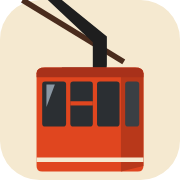
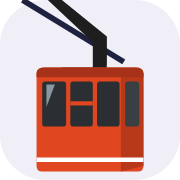
Charte n° 6 « Sorbet » à la place d'« Après-ski »
Palette pastel (violet électrique, menthe, nuit), Plus Jakarta Sans servie par
le site, arrondis et ombres de la charte, branches pêche, lavande et citron.
Logo « Chalet de famille », favicon et bandeau animé Sorbet. Les couleurs de
lignée claires prennent un texte nuit (contraste). Plus de trame « en attente ».

diff --git a/resources/css/app.css b/resources/css/app.css
@@ -1,8 +1,8 @@
 @import "tailwindcss";
-@import "@fontsource/fraunces/400.css";
-@import "@fontsource/fraunces/600.css";
-@import "@fontsource/fraunces/700.css";
-@import "@fontsource/fraunces/900.css";
+@import "@fontsource/plus-jakarta-sans/400.css";
+@import "@fontsource/plus-jakarta-sans/600.css";
+@import "@fontsource/plus-jakarta-sans/700.css";
+@import "@fontsource/plus-jakarta-sans/800.css";
 @source "../views";
 @source "../js";
 /* Vue saison : colonnes de la frise (1 à 31) et longueur des barres. */
@@ -10,50 +10,52 @@
 @source inline("row-start-{1,2,3,4}");
 @source inline("col-span-{1,2,3,4,5,6,7,8,9,10,11,12,13,14,15,16,17,18,19,20,21,22,23,24,25,26,27,28,29,30,31}");
 
-/* Charte n° 5 « Après-ski » (années 70), validée par Pascal le 5 nov. 2026.
-   Jetons de la charte, puis les anciens noms utilisés dans les vues, rattachés à la charte. */
+/* Charte n° 6 « Sorbet » (moderne pastel), retenue par Pascal le 6 nov. 2026.
+   Jetons de la charte (contexte/charte/sorbet/sorbet-theme.css), puis les anciens noms des vues rattachés à la charte. */
 @theme {
-    --font-sans: "Fraunces", Georgia, serif;
-    --font-display: "Fraunces", Georgia, serif;
-    --color-principale: #A84B1A;        /* boutons, sélection (blanc dessus 5,7:1) */
-    --color-principale-fonce: #8E3E14;  /* survol */
-    --color-accent: #E0A526;            /* moutarde : réservé (chocolat dessus) */
-    --color-texte: #4A2C1D;             /* chocolat */
-    --color-fond: #F5E9D0;              /* crème */
-    --color-surface: #FFF8EA;
-    --color-cabine: #E0461F;            /* illustration seulement, jamais sous du texte */
-    --color-gris-50: #FAF6EF; --color-gris-100: #F0E8DA; --color-gris-200: #E0D4C0; --color-gris-300: #C9B9A0;
-    --color-gris-400: #A8957A; --color-gris-500: #85735B; --color-gris-600: #65553F; --color-gris-700: #3B3024;
-    --color-succes: #3F6B2A; --color-succes-fond: #E4EED8;
-    --color-alerte: #7A4B00; --color-alerte-fond: #F6E3B4;
-    --color-erreur: #B3261E; --color-erreur-fond: #FBE3DE;
-    --color-info: #1F5A7A;   --color-info-fond: #DCEBF2;
-    --color-branche-1: #5F6B28; --color-branche-2: #1F6F6B; --color-branche-3: #7A3B69;
-    --radius-sm: 6px; --radius-md: 12px; --radius-lg: 20px;
-    --shadow-sm: 0 1px 3px rgb(74 44 29 / .12);
-    --shadow-md: 0 4px 12px rgb(74 44 29 / .15);
-    --shadow-lg: 0 12px 32px rgb(74 44 29 / .20);
+    --font-sans: "Plus Jakarta Sans", system-ui, sans-serif;
+    --font-display: "Plus Jakarta Sans", system-ui, sans-serif;
+    --color-principale: #5B3DF5;        /* violet électrique : boutons, sélection (blanc dessus 6,1:1) */
+    --color-principale-fonce: #4527D9;  /* survol */
+    --color-principale-clair: #F0EEF7;
+    --color-accent: #C9F0DC;            /* menthe : réservation ouverte (texte nuit dessus) */
+    --color-peche: #FFB4A2; --color-citron: #FFE27A; --color-lavande: #B9B0FF;
+    --color-texte: #1F2140;             /* nuit ; aussi fond des réservations exclusives */
+    --color-fond: #FFFDF8;
+    --color-surface: #FFFFFF;
+    --color-cabine: #E0461F;            /* illustration seulement */
+    --color-gris-50: #F8F7FC; --color-gris-100: #F0EEF7; --color-gris-200: #E2DFEE; --color-gris-300: #C8C4DA;
+    --color-gris-400: #A29DBA; --color-gris-500: #7C779A; --color-gris-600: #5A5677; --color-gris-700: #3A3756;
+    --color-succes: #1E7A4F; --color-succes-fond: #DDF5E8;
+    --color-alerte: #8A5A00; --color-alerte-fond: #FFF1C2;
+    --color-erreur: #B3203D; --color-erreur-fond: #FFE1E6;
+    --color-info: #1D5FC2;   --color-info-fond: #E0ECFF;
+    --color-branche-1: #FFB4A2; --color-branche-2: #B9B0FF; --color-branche-3: #FFE27A;
+    --radius-sm: 8px; --radius-md: 12px; --radius-lg: 16px;
+    --shadow-sm: 0 1px 2px rgb(31 33 64 / .06);
+    --shadow-md: 0 4px 14px rgb(31 33 64 / .08);
+    --shadow-lg: 0 16px 40px rgb(31 33 64 / .14);
     /* Jamais moins de 16 px (charte) : les petites tailles Tailwind sont relevées. */
     --text-xs: 16px; --text-xs--line-height: 1.45;
     --text-sm: 16px; --text-sm--line-height: 1.45;
-    --text-base: 17px; --text-base--line-height: 1.5;
+    --text-base: 17px; --text-base--line-height: 1.55;
 
     /* Anciens noms → charte. */
-    --color-white: #FFF8EA;
-    --color-sapin: #A84B1A;
-    --color-sapin-clair: #F0E8DA;
-    --color-encre: #4A2C1D;
-    --color-gris: #65553F;
-    --color-gris-clair: #85735B;
-    --color-texte-2: #3B3024;
-    --color-bord: #E0D4C0;
-    --color-bord-doux: #F0E8DA;
-    --color-bord-fort: #C9B9A0;
-    --color-ouverte: #E0A526;
-    --color-ouverte-bord: #E0A526;
-    --color-ouverte-texte: #4A2C1D;
-    --color-segment: #E0D4C0;
-    --color-station: #A84B1A;
+    --color-white: #FFFFFF;
+    --color-sapin: #5B3DF5;
+    --color-sapin-clair: #F0EEF7;
+    --color-encre: #1F2140;
+    --color-gris: #5A5677;
+    --color-gris-clair: #7C779A;
+    --color-texte-2: #3A3756;
+    --color-bord: #E2DFEE;
+    --color-bord-doux: #F0EEF7;
+    --color-bord-fort: #C8C4DA;
+    --color-ouverte: #C9F0DC;
+    --color-ouverte-bord: #C9F0DC;
+    --color-ouverte-texte: #1F2140;
+    --color-segment: #E2DFEE;
+    --color-station: #5B3DF5;
 }
 
 /*
@@ -79,11 +81,11 @@
 @layer components {
     /* Écart assumé à la charte (16 px minimum) : les créneaux du mois restent en 12,5 px pour lire le nom et le commentaire (demande de Pascal, 5 nov.). */
     .case { @apply relative flex min-h-9 cursor-pointer flex-col justify-center gap-px overflow-hidden rounded-md border px-1.5 py-1 text-[12.5px] leading-tight font-medium tracking-tight whitespace-nowrap; }
-    .case-libre, .barre-libre { @apply border-gris-300 bg-white text-gris-clair; }
+    .case-libre, .barre-libre { @apply border-gris-200 bg-white text-gris-clair; }
     .case-ouverte { @apply border-ouverte-bord bg-ouverte text-ouverte-texte; }
     .case-exclusive, .barre-exclusive { @apply cursor-not-allowed border-encre bg-encre text-white; }
     .case-attribue, .barre-attribue { @apply cursor-not-allowed border-alerte bg-alerte-fond text-alerte; }
-    .case-attente, .barre-attente { @apply cursor-not-allowed border-bord-fort text-encre; background-image: repeating-linear-gradient(135deg, var(--color-segment) 0 4px, var(--color-bord-fort) 4px 8px); }
+    .case-attente, .barre-attente { @apply cursor-not-allowed border-gris-200 bg-gris-100 text-gris-600; }
     .case-ferme, .barre-ferme { @apply cursor-not-allowed border-gris bg-fond text-gris line-through; }
     .case-pas-ouvert, .barre-pas-ouvert { @apply cursor-not-allowed border-dotted border-bord bg-fond text-gris; }
     .case-passe { @apply cursor-default opacity-60; }
@@ -103,7 +105,7 @@
 
 /* Titres en Fraunces ; chiffres alignés dans le calendrier. */
 @layer base {
-    h1 { font-weight: 900; line-height: 1.15; }
+    h1 { font-weight: 800; line-height: 1.15; letter-spacing: -0.02em; }
     h2, h3 { font-weight: 700; }
     table, [data-date] { font-variant-numeric: tabular-nums; }
 }

diff --git a/app/Http/Controllers/CouleursLigneesController.php b/app/Http/Controllers/CouleursLigneesController.php
@@ -20,10 +20,20 @@ final class CouleursLigneesController
         foreach (Lignee::query()->pluck('couleur')->unique() as $couleur) {
             $classe = AffichageCreneau::classeCouleur((string) $couleur);
             if ($classe !== null) {
-                $css .= ".{$classe}{background-color:{$couleur};border-color:{$couleur};color:#fff}\n";
+                $texte = self::claire((string) $couleur) ? '#1F2140' : '#fff'; // pastels de la charte : texte nuit
+                $css .= ".{$classe}{background-color:{$couleur};border-color:{$couleur};color:{$texte}}\n";
             }
         }
 
         return response($css, 200, ['Content-Type' => 'text/css; charset=utf-8', 'Cache-Control' => 'private, max-age=300']);
+    }
+
+    /** Couleur claire (luminance relative > 0,4) : on écrit en nuit dessus plutôt qu'en blanc. */
+    private static function claire(string $couleur): bool
+    {
+        [$r, $v, $b] = array_map(fn (string $h) => hexdec($h) / 255, str_split(ltrim($couleur, '#'), 2));
+        $lin = fn (float $c) => $c <= 0.03928 ? $c / 12.92 : (($c + 0.055) / 1.055) ** 2.4;
+
+        return 0.2126 * $lin($r) + 0.7152 * $lin($v) + 0.0722 * $lin($b) > 0.4;
     }
 }

diff --git a/resources/views/layouts/app.blade.php b/resources/views/layouts/app.blade.php
@@ -16,9 +16,8 @@
     @php($actif = fn (string ...$routes) => request()->routeIs(...$routes) ? 'bg-sapin-clair font-bold text-sapin' : 'font-semibold text-texte-2 hover:bg-fond')
     <header class="border-b border-bord bg-white">
         <div class="mx-auto flex max-w-[1280px] flex-wrap items-center gap-x-6 gap-y-2 px-4 py-3 sm:px-8">
-            <a href="{{ route('calendrier') }}" class="flex items-center gap-2.5 text-encre no-underline">
-                <img src="/favicon.svg" width="34" height="34" alt="" class="size-[34px]">
-                <span class="font-display text-lg font-bold">Appartement Chamrousse</span>
+            <a href="{{ route('calendrier') }}" class="flex items-center text-encre no-underline" aria-label="Appartement Chamrousse : calendrier">
+                <img src="/images/logo.svg" width="270" height="48" alt="" class="h-12 w-auto">
             </a>
             <nav aria-label="Navigation principale" class="flex flex-auto flex-wrap gap-1 text-sm">
                 <a href="{{ route('calendrier') }}" class="flex min-h-11 items-center rounded-full px-4 {{ $actif('calendrier', 'calendrier.mois', 'saison', 'jour') }}">Calendrier</a>

diff --git a/tests/Feature/Calendrier/CalendrierTest.php b/tests/Feature/Calendrier/CalendrierTest.php
@@ -298,3 +298,15 @@ it('US-205-N1 ne propose aucune réservation sur ces dates et refuse une requêt
     ])->assertSessionHasErrors(['reservation' => 'Ces dates ne sont pas encore ouvertes à la réservation.']);
     expect(DB::table('reservations')->count())->toBe(0);
 });
+
+it('sert les couleurs de lignée avec un texte lisible : nuit sur les pastels de la charte Sorbet', function () {
+    DB::table('lignees')->insert([
+        ['nom' => 'Lignée Pêche', 'couleur' => '#FFB4A2', 'created_at' => now(), 'updated_at' => now()],
+        ['nom' => 'Lignée Sombre', 'couleur' => '#1F6F6B', 'created_at' => now(), 'updated_at' => now()],
+    ]);
+
+    $css = $this->actingAs($this->alice)->get('/lignees.css')->assertOk()->getContent();
+
+    expect($css)->toContain('.lc-ffb4a2{background-color:#FFB4A2;border-color:#FFB4A2;color:#1F2140}')
+        ->toContain('.lc-1f6f6b{background-color:#1F6F6B;border-color:#1F6F6B;color:#fff}');
+});

diff --git a/resources/views/layouts/invite.blade.php b/resources/views/layouts/invite.blade.php
@@ -12,13 +12,7 @@
 </head>
 <body class="min-h-screen bg-fond font-sans text-encre">
     <main class="mx-auto flex min-h-screen max-w-md flex-col justify-center gap-6 px-4 py-10">
-        <div class="flex items-center gap-3">
-            <img src="/favicon.svg" width="44" height="44" alt="" class="size-11">
-            <div class="flex flex-col gap-0.5">
-            <span class="font-display text-xl font-bold">Appartement Chamrousse</span>
-            <span class="text-sm text-gris">Le Recoin · 1 650 m</span>
-            </div>
-        </div>
+        <img src="/images/logo.svg" width="360" height="64" alt="Appartement Chamrousse" class="h-14 w-auto self-start">
         <section class="flex flex-col gap-4 rounded-2xl border border-bord bg-white p-6">
             <h1 class="font-display text-2xl font-bold">@yield('titre')</h1>
             @if (session('status'))

diff --git a/database/seeders/DatabaseSeeder.php b/database/seeders/DatabaseSeeder.php
@@ -14,7 +14,7 @@ class DatabaseSeeder extends Seeder
 {
     public function run(): void
     {
-        $config = (string) (config('chamrousse.lignees') ?: 'Lignée A:#5F6B28,Lignée B:#1F6F6B,Lignée C:#7A3B69');
+        $config = (string) (config('chamrousse.lignees') ?: 'Lignée A:#FFB4A2,Lignée B:#B9B0FF,Lignée C:#FFE27A');
 
         foreach (array_filter(explode(',', $config)) as $entree) {
             [$nom, $couleur] = array_map('trim', explode(':', $entree, 2)) + [1 => '#5B6673'];

diff --git a/docs/PASSATION.md b/docs/PASSATION.md
@@ -49,12 +49,14 @@ user stories à jour sont dans `contexte/` (privé). Changements :
   US-204-P2, US-301-P2, US-304, US-305-N4, US-502 ; ajouté : US-301-N9. US-308-P1 est à réécrire
   dans les specs (le test vérifie maintenant qu'une seule réservation est créée).
 - **Commentaire** visible de tous, 200 caractères au plus ; invités masqués aux autres membres.
-- **Charte n° 5 « Après-ski »** : palette, Fraunces (servie par le site), arrondis, ombres ;
-  branches en avocat, sarcelle et prune avec ● ■ ▲ ; trames des créneaux retirées ; texte des
-  cases du mois en 12,5 px (écart à la charte, 16 px minimum, voulu par Pascal). Favicon cabine
-  rouge et bandeau animé (Réserver, Modifier, Mes réservations). Couleurs de lignée servies par
-  `/lignees.css` (la CSP interdit les styles en ligne). **En production, mettre les couleurs de
-  la charte dans `LIGNEES` de `partage/.env`.**
+- **Charte n° 6 « Sorbet »** (6 nov., remplace « Après-ski ») : palette pastel (violet
+  électrique, menthe, nuit), Plus Jakarta Sans servie par le site, arrondis et ombres légères ;
+  branches pêche, lavande et citron avec ● ■ ▲ (texte nuit dessus) ; pas de trames ; texte des
+  cases du mois en 12,5 px (écart à la charte, 16 px minimum, voulu par Pascal). Logo « Chalet de
+  famille », favicon cabine et bandeau animé (Réserver, Modifier, Mes réservations). Couleurs de
+  lignée servies par `/lignees.css` (la CSP interdit les styles en ligne), texte nuit ou blanc
+  selon la clarté. **En production, mettre dans `LIGNEES` de `partage/.env` les couleurs
+  `#FFB4A2`, `#B9B0FF` et `#FFE27A`.**
 
 Pour pousser : `gh auth login` sur le Mac de Pascal, puis PR vers `main`.
 
